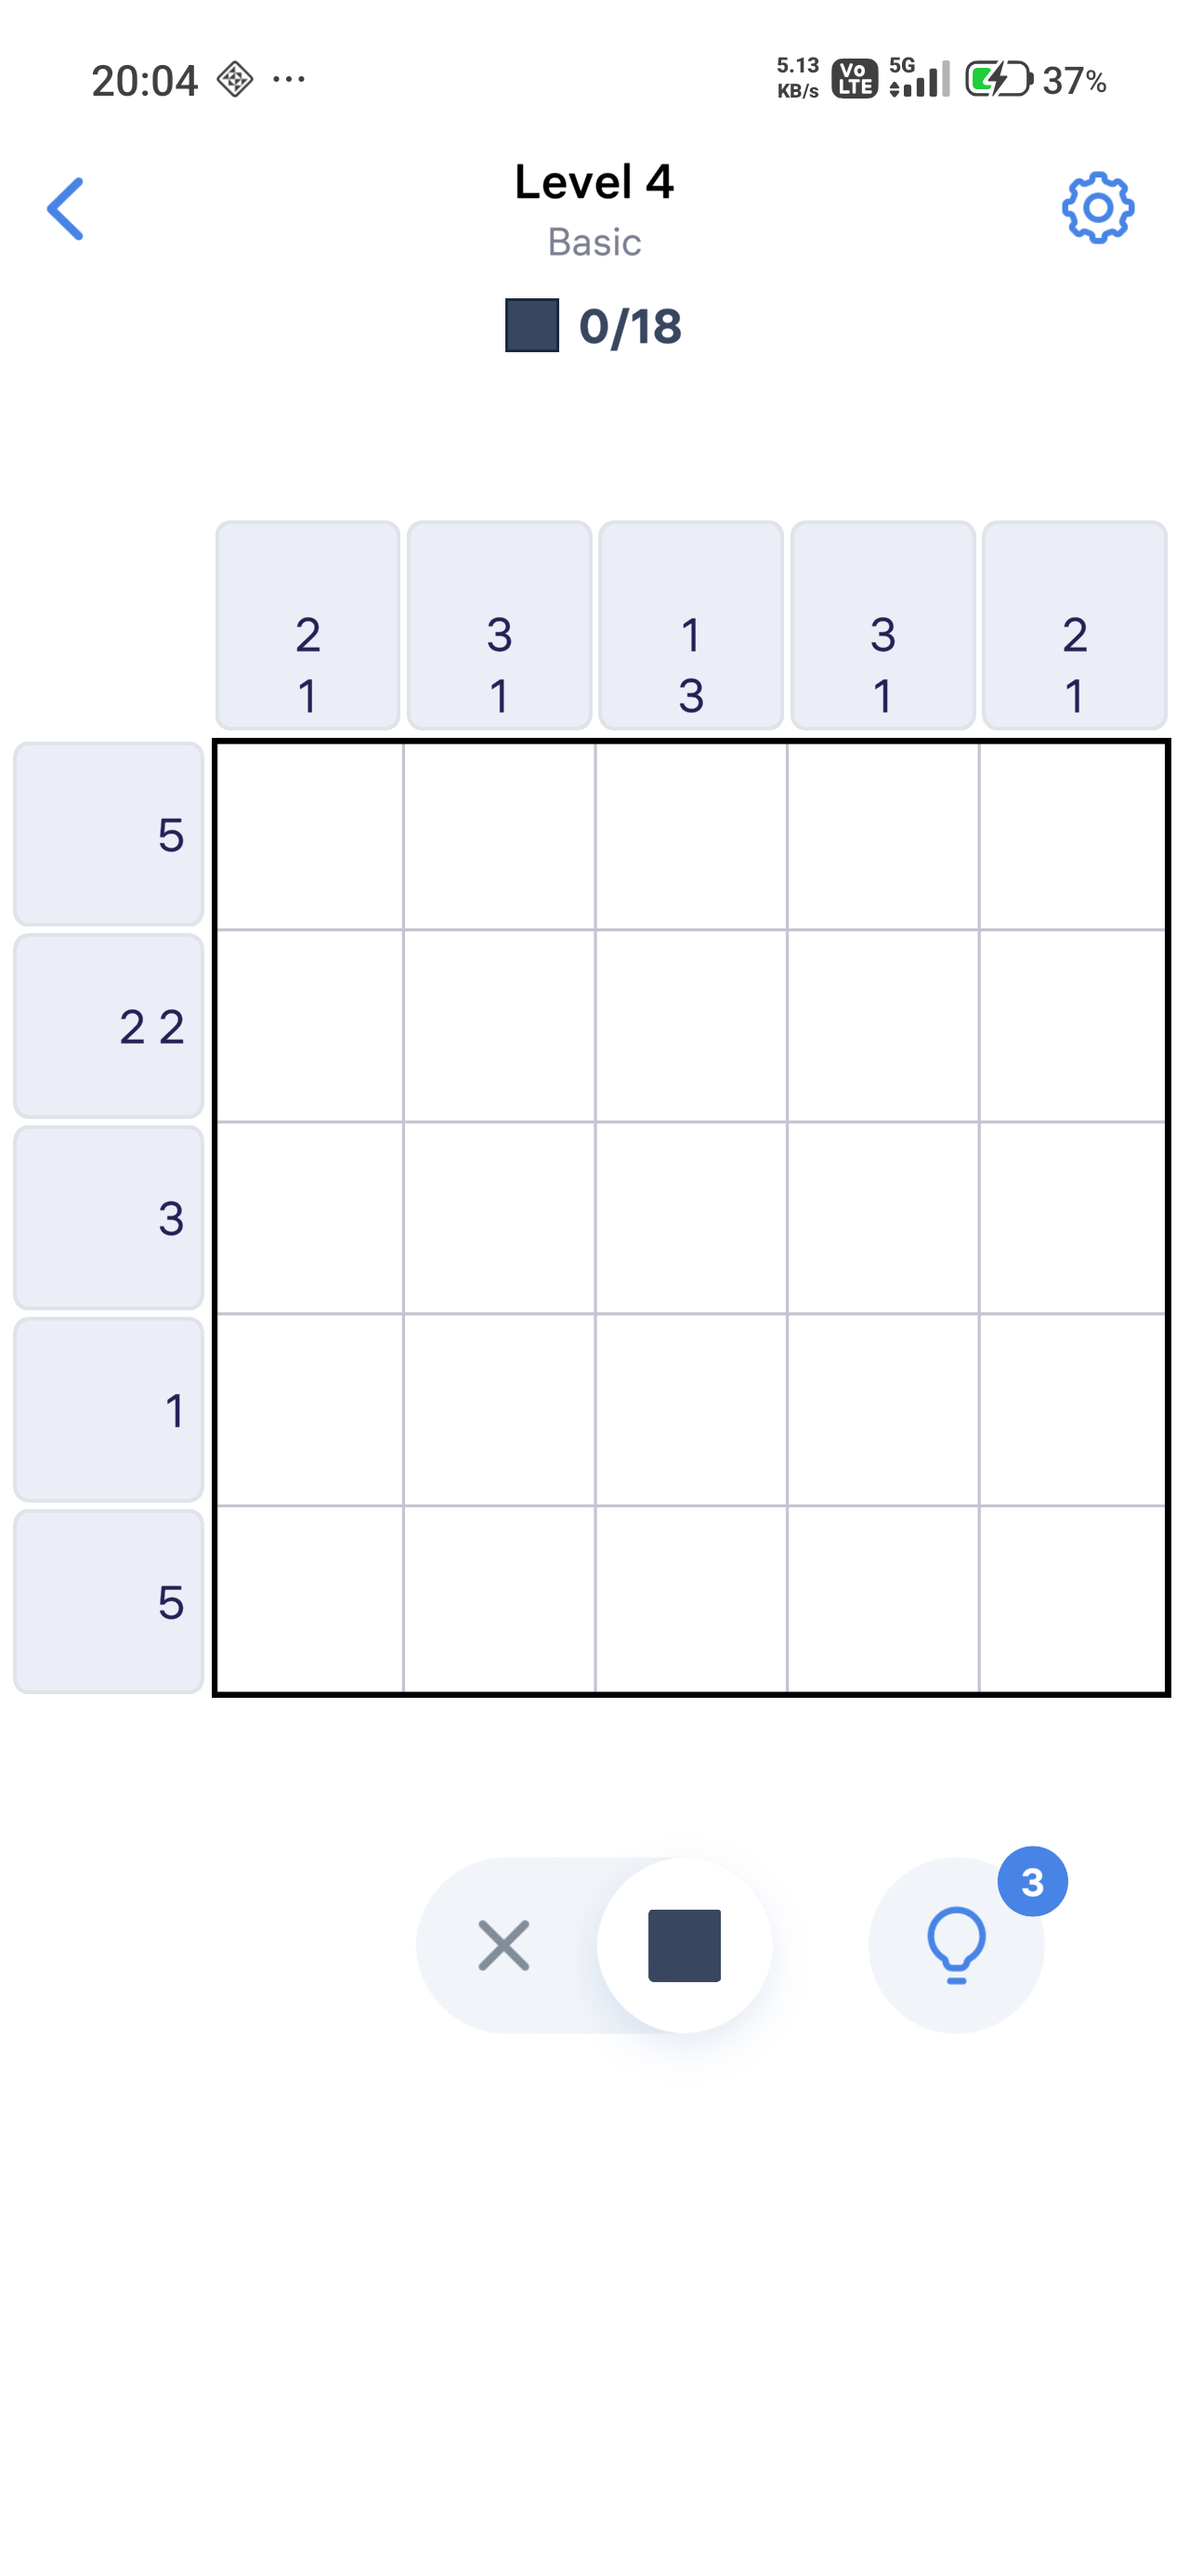
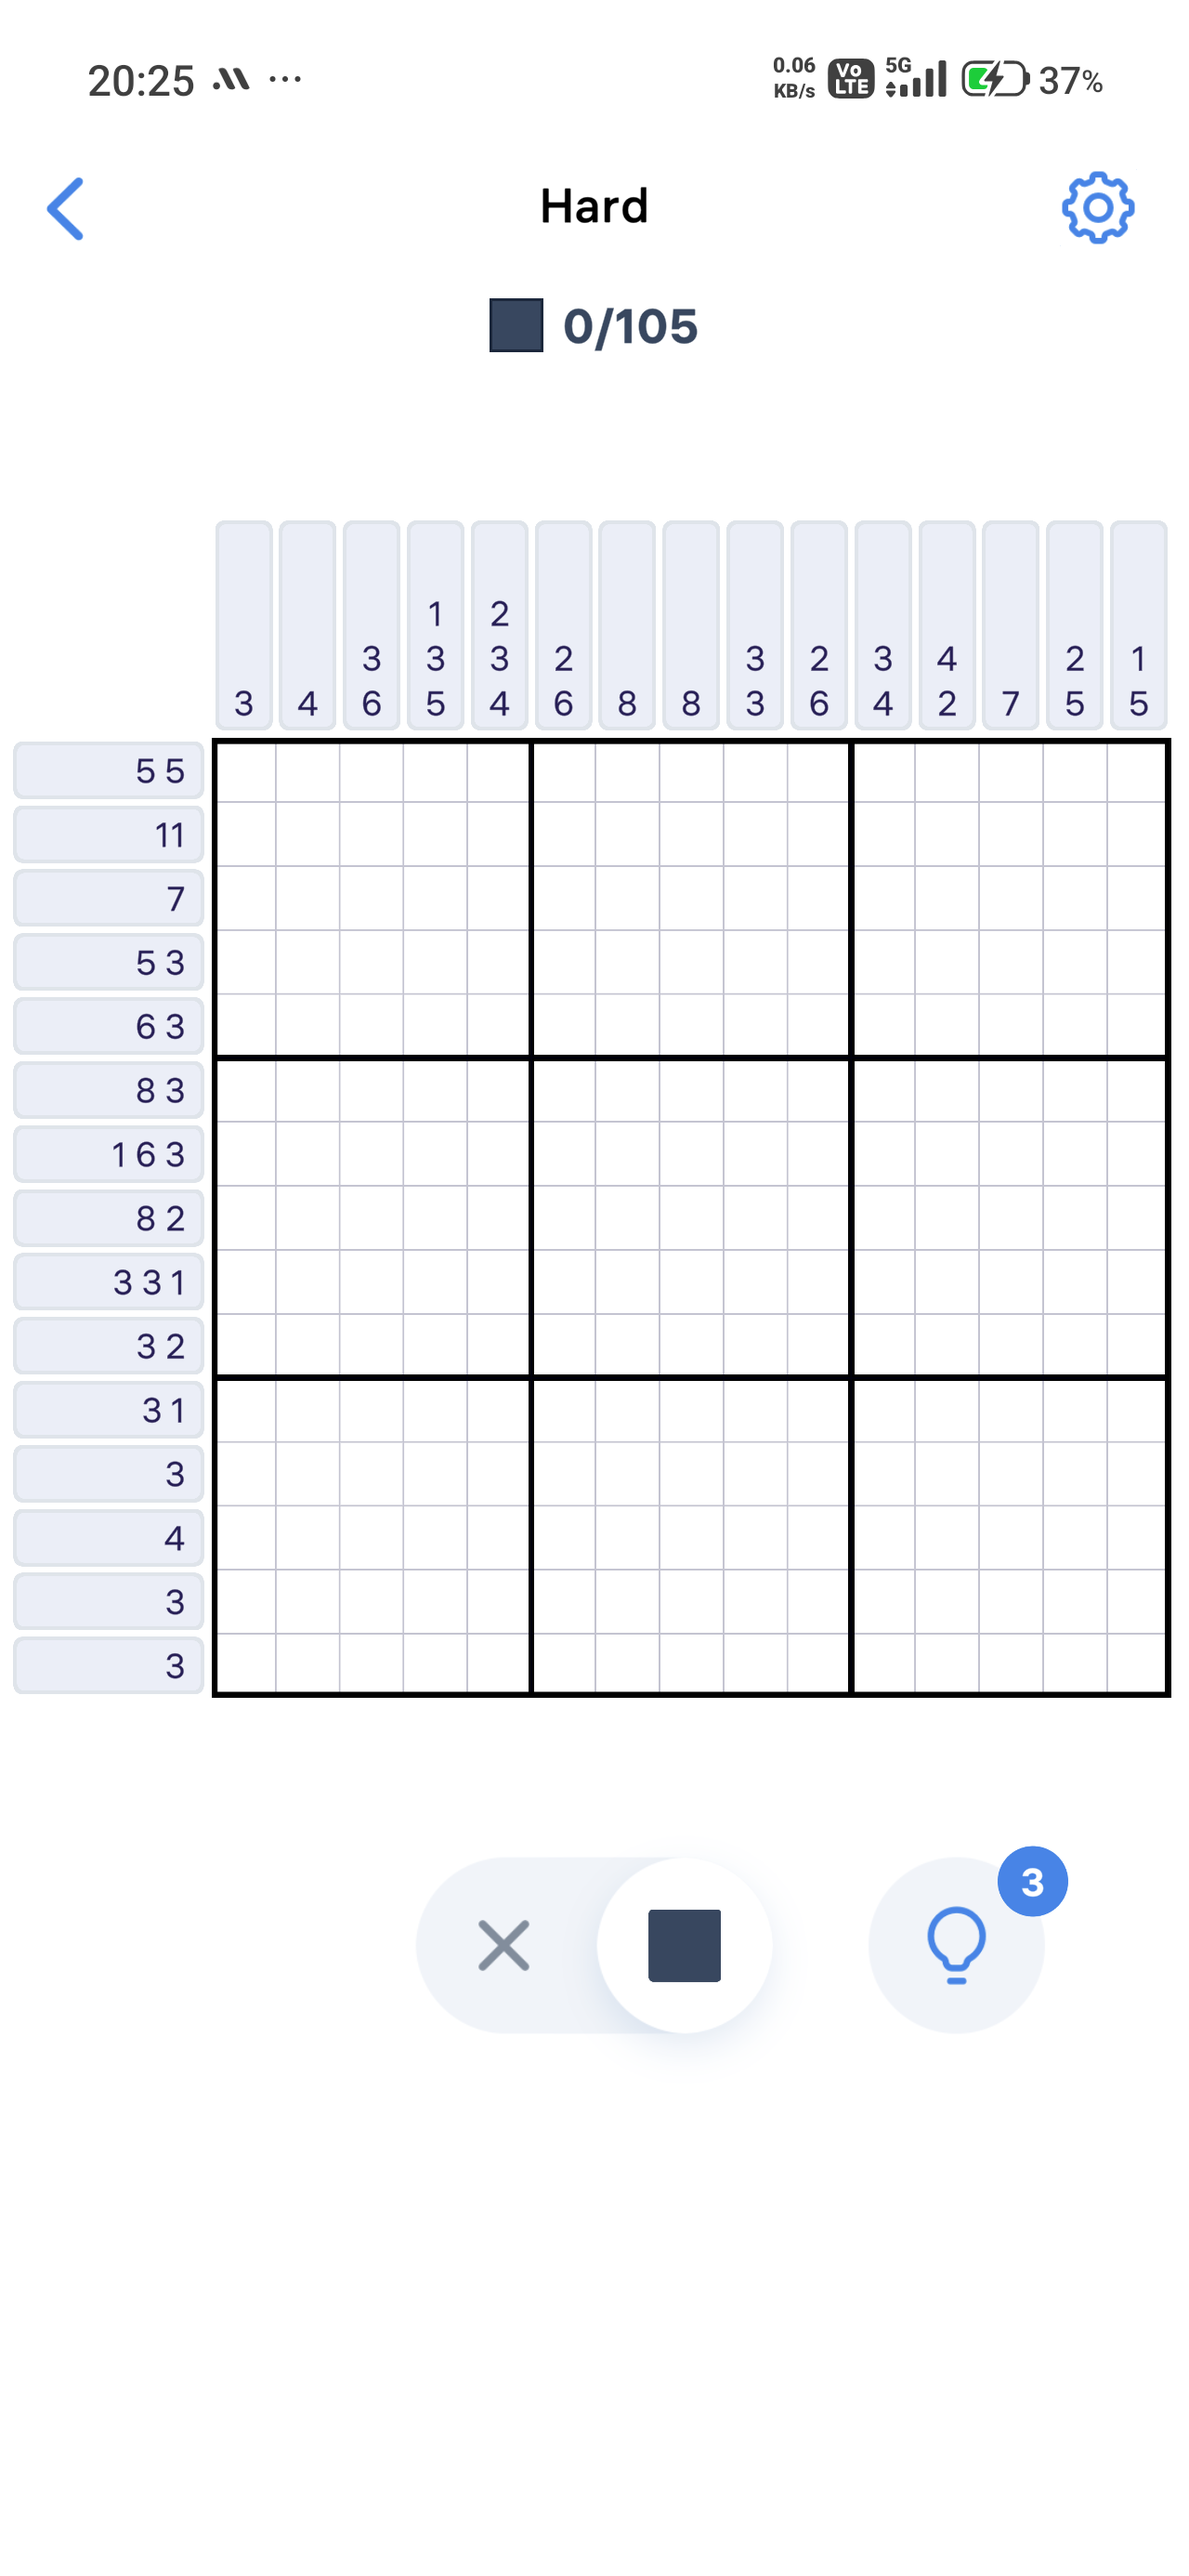
refactor: replace OCR with template matching for digit recognition and optimize ADB tap execution

diff --git a/nonogram_solver.py b/nonogram_solver.py
@@ -4,7 +4,6 @@ from __future__ import annotations
 
 import argparse
 import subprocess
-import time
 from dataclasses import dataclass
 from pathlib import Path
 from typing import cast
@@ -29,15 +28,40 @@ class Layout:
 
 Clue = tuple[int, ...]
 Pattern = tuple[int, ...]
-_ocr = RapidOCR()
+_ocr: RapidOCR | None = None
+_adb_serial: str | None = None
+
+PACKED_TEMPLATES = {
[10 lines of base64/hex data omitted]
+}
+TEMPLATES = {d: np.unpackbits(np.frombuffer(raw, dtype=np.uint8)).reshape(24, 16) for d, raw in PACKED_TEMPLATES.items()}
 
 
-def adb(*args: str, capture_output: bool = False) -> subprocess.CompletedProcess[bytes]:
-    output = subprocess.run(["adb", "devices"], check=True, capture_output=True).stdout.decode()
-    serials = [line.split()[0] for line in output.splitlines()[1:] if line.endswith("\tdevice")]
-    if len(serials) != 1:
-        raise RuntimeError(f"ADB needs one device; found: {', '.join(serials) or 'none'}")
-    return subprocess.run(["adb", "-s", serials[0], *args], check=True, capture_output=capture_output)
+def _get_ocr() -> RapidOCR:
+    global _ocr
+    if _ocr is None:
+        _ocr = RapidOCR()
+    return _ocr
+
+
+def adb(*args: str, capture_output: bool = False, input_bytes: bytes | None = None) -> subprocess.CompletedProcess[bytes]:
+    global _adb_serial
+    if _adb_serial is None:
+        output = subprocess.run(["adb", "devices"], check=True, capture_output=True).stdout.decode()
+        serials = [line.split()[0] for line in output.splitlines()[1:] if line.endswith("\tdevice")]
+        if len(serials) != 1:
+            raise RuntimeError(f"ADB needs one device; found: {', '.join(serials) or 'none'}")
+        _adb_serial = serials[0]
+    return subprocess.run(["adb", "-s", _adb_serial, *args], check=True, capture_output=capture_output, input=input_bytes)
 
 
 def screen_size() -> tuple[int, int]:
@@ -104,34 +128,29 @@ def read_layout(image_path: Path) -> tuple[Layout, int, int]:
     return layout, len(horizontal) - 1, len(vertical) - 1
 
 
-def _read_digit(image: np.ndarray, box: tuple[int, int, int, int], maximum: int) -> int | None:
+def _match_digit(image: np.ndarray, box: tuple[int, int, int, int]) -> tuple[int | None, float]:
     x, y, width, height = box
-    best: tuple[float, int] | None = None
-    for padding in (10, 12, 14, 16, 18, 20):
-        crop = image[max(0, y - padding) : min(image.shape[0], y + height + padding), max(0, x - padding) : min(image.shape[1], x + width + padding)]
-        gray = cv2.cvtColor(crop, cv2.COLOR_BGR2GRAY)
-        enlarged = cv2.resize(gray, None, fx=5, fy=5, interpolation=cv2.INTER_CUBIC)
-        result, _ = _ocr(enlarged)
-        for _, text, confidence in cast(list[tuple[list[list[float]], str, float]], result or []):
-            if not text.isdecimal():
-                continue
-            # One connected glyph can be read together with its neighbour
-            # because padding overlaps. Keep rightmost digit; grouping below
-            # reconstructs 10, 11, 12, etc. from separate glyph positions.
-            if len(text) > 1:
-                text = text[-1]
-            value = int(text)
-            if not 0 <= value <= maximum:
-                continue
-            candidate = (float(confidence), value)
-            if best is None or candidate[0] > best[0] or (candidate[0] == best[0] and len(text) < len(str(best[1]))):
-                best = candidate
-        if best is not None and best[0] >= 0.99:
-            break
-    return best[1] if best is not None else None
+    crop = image[y : y + height, x : x + width]
+    gray = cv2.cvtColor(crop, cv2.COLOR_BGR2GRAY) if len(crop.shape) == 3 else crop
+    mask = (gray < 150).astype("uint8")
+    coords = cv2.findNonZero(mask)
+    if coords is None:
+        return None, 0.0
+    bx, by, bw, bh = cv2.boundingRect(coords)
+    digit = mask[by : by + bh, bx : bx + bw]
+    resized = cv2.resize(digit.astype("float32"), (16, 24), interpolation=cv2.INTER_AREA)
+    normalized = (resized > 0.3).astype("uint8")
+    best_digit, best_score = None, -1.0
+    for digit_value, template in TEMPLATES.items():
+        intersection = np.sum((normalized == 1) & (template == 1))
+        union = np.sum((normalized == 1) | (template == 1))
+        score = float(intersection / max(1, union))
+        if score > best_score:
+            best_digit, best_score = digit_value, score
+    return best_digit, best_score
 
 
-def _card_clues(image: np.ndarray, layout: Layout, count: int, horizontal: bool) -> list[Clue]:
+def _card_clues(image: np.ndarray, layout: Layout, vertical_lines: list[int], horizontal_lines: list[int], count: int, horizontal: bool) -> list[Clue]:
     """Read each clue card independently, preserving glyph spacing."""
     gray = cv2.cvtColor(image, cv2.COLOR_BGR2GRAY)
     result: list[Clue] = []
@@ -139,23 +158,23 @@ def _card_clues(image: np.ndarray, layout: Layout, count: int, horizontal: bool)
         if horizontal:
             top = round(layout.first_y - layout.step_y / 2 + index * layout.step_y + 8)
             bottom = round(layout.first_y + layout.step_y / 2 + index * layout.step_y - 8)
-            left, right = 10, max(1, layout.first_x - 10)
+            left, right = 10, vertical_lines[0] - 10
             order_axis = 0
         else:
             left = round(layout.first_x - layout.step_x / 2 + index * layout.step_x + 8)
             right = round(layout.first_x + layout.step_x / 2 + index * layout.step_x - 8)
-            top, bottom = max(400, round(layout.first_y - max(layout.step_y * 3.5, 240))), layout.first_y - 8
+            top, bottom = max(450, horizontal_lines[0] - 250), horizontal_lines[0] - 10
             order_axis = 1
         crop = gray[top:bottom, left:right]
         mask = (crop < 150).astype("uint8")
         _, _, stats, _ = cv2.connectedComponentsWithStats(mask, connectivity=8)
-        glyphs: list[tuple[int, int, int, int, int]] = []
+        glyphs: list[tuple[int, int, int, int]] = []
         for x, y, width, height, area in stats[1:]:
-            if area >= 50 and height >= 20 and width >= 5:
-                glyphs.append((int(x + left), int(y + top), int(width), int(height), int(area)))
+            if area >= 30 and height >= 15 and width >= 3:
+                glyphs.append((int(x + left), int(y + top), int(width), int(height)))
         glyphs.sort(key=lambda box: box[order_axis])
         if horizontal:
-            digits = [(box[0], box[0] + box[2], _read_digit(image, box[:4], count)) for box in glyphs]
+            digits = [(box[0], box[0] + box[2], _match_digit(image, box)[0]) for box in glyphs]
             lines: list[list[tuple[int, int, int | None]]] = [digits]
         else:
             # Column clues stack vertically. Components sharing a y-line form
@@ -164,7 +183,7 @@ def _card_clues(image: np.ndarray, layout: Layout, count: int, horizontal: bool)
             for box in glyphs:
                 center_y = box[1] + box[3] / 2
                 line = next((line for line in raw_lines if abs(center_y - line[0][2]) <= box[3] * 0.45), None)
-                entry = (box[0], box[0] + box[2], int(center_y), _read_digit(image, box[:4], count))
+                entry = (box[0], box[0] + box[2], int(center_y), _match_digit(image, box)[0])
                 if line is None:
                     raw_lines.append([entry])
                 else:
@@ -199,8 +218,9 @@ def read_clues(image_path: Path, layout: Layout, rows: int, columns: int) -> tup
     image = cv2.imread(str(image_path))
     if image is None:
         raise ValueError(f"Cannot read screenshot: {image_path}")
-    rows_result = _card_clues(image, layout, rows, horizontal=True)
-    columns_result = _card_clues(image, layout, columns, horizontal=False)
+    vertical, horizontal = _line_centers(image)
+    rows_result = _card_clues(image, layout, vertical, horizontal, rows, horizontal=True)
+    columns_result = _card_clues(image, layout, vertical, horizontal, columns, horizontal=False)
     if any(value <= 0 or value > rows for line in rows_result for value in line) or any(value <= 0 or value > columns for line in columns_result for value in line):
         raise ValueError("Nonogram clue value is outside board size. No input sent.")
     if not any(rows_result) or not any(columns_result):
@@ -288,21 +308,33 @@ def solve(row_clues: list[Clue], column_clues: list[Clue]) -> list[list[int]] | 
 
 
 def apply(solution: list[list[int]], layout: Layout) -> None:
-    """Tap only filled cells. App starts each level in fill mode."""
+    """Tap filled cells in one ADB shell session."""
+    commands: list[str] = []
     for row, line in enumerate(solution):
         for column, value in enumerate(line):
             if value:
-                tap(*layout.cell_center(row, column))
-                time.sleep(0.28)
+                x, y = layout.cell_center(row, column)
+                commands.append(f"input tap {x} {y}")
+    if commands:
+        adb("shell", input_bytes=("\n".join(commands) + "\n").encode())
 
 
 def main() -> None:
     parser = argparse.ArgumentParser(description="Solve current Nonogram through ADB.")
     parser.add_argument("--apply", action="store_true", help="Tap solution cells. Default is dry-run.")
+    parser.add_argument("--offline", action="store_true", help="Use existing screenshot; do not call ADB.")
     parser.add_argument("--screenshot", type=Path, default=Path("nonogram-screen.png"))
     args = parser.parse_args()
-    width, height = screen_size()
-    capture(args.screenshot)
+    if args.offline:
+        if args.apply:
+            raise SystemExit("--apply cannot be used with --offline.")
+        image = cv2.imread(str(args.screenshot))
+        if image is None:
+            raise SystemExit(f"Cannot read screenshot: {args.screenshot}")
+        height, width = image.shape[:2]
+    else:
+        width, height = screen_size()
+        capture(args.screenshot)
     layout, rows, columns = read_layout(args.screenshot)
     row_clues, column_clues = read_clues(args.screenshot, layout, rows, columns)
     solution = solve(row_clues, column_clues)

diff --git a/README.md b/README.md
@@ -7,11 +7,13 @@ Dynamic Android Nonogram solver. Reads current grid and clues from screenshot, s
 ```powershell
 python nonogram_solver.py
 python nonogram_solver.py --apply
+python nonogram_solver.py --offline --screenshot Hard.png
 ```
 
 - Default: capture and solve only. No taps.
 - `--apply`: tap filled cells. App must start level in square/fill mode.
 - `--screenshot path.png`: save and read specified screenshot path.
+- `--offline`: read existing screenshot without ADB. Never sends taps.
 
 ## Requirements
 
